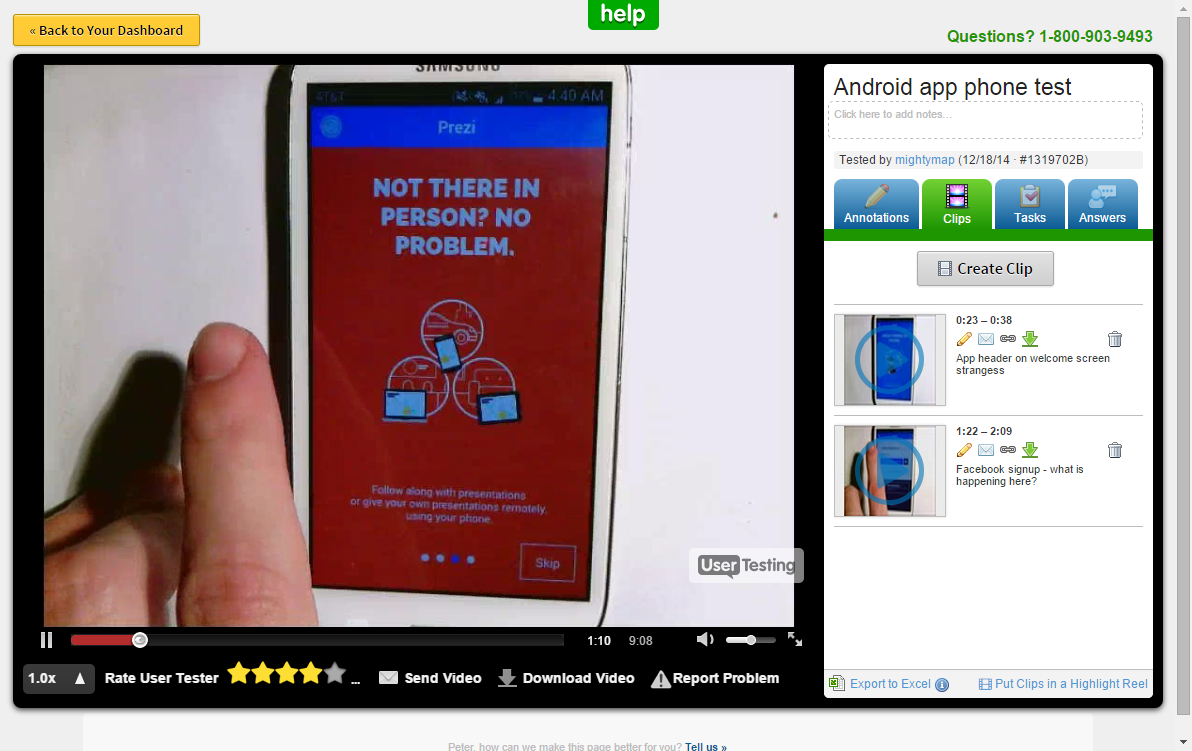
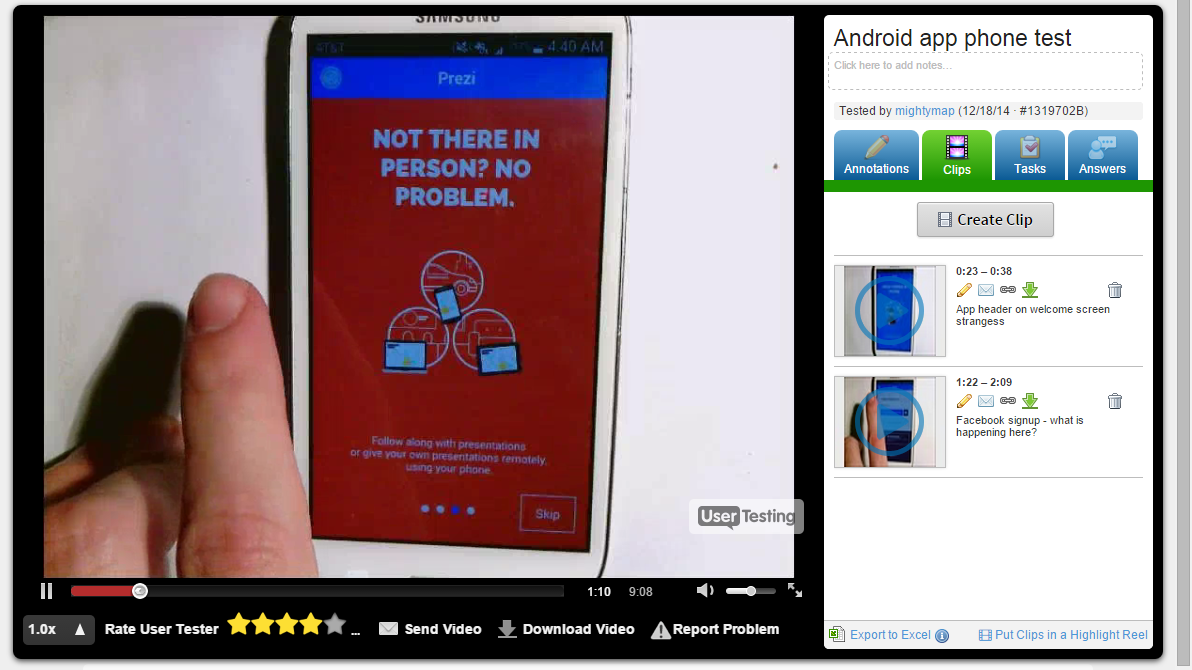
update images

diff --git a/_portfolio/2011-usability-testing-the-prezi-editor.md b/_portfolio/2011-usability-testing-the-prezi-editor.md
@@ -14,25 +14,19 @@ sidebar:
     text: "In a cross-functional team partner with a product designer, a product manager and engineers and enable discovery and learning about users."
   - title: "<br><br>"
     text: "[Back to the portfolio](/portfolio)"
-gallery:
-  - url: /assets/images/portfolio/2011-usability-testing-the-prezi-editor-1.png
-    image_path: assets/images/portfolio/2011-usability-testing-the-prezi-editor-1.png
-    alt: "testing the prezi editor"
-  - url: /assets/images/portfolio/2011-usability-testing-the-prezi-editor-2.jpg
-    image_path: assets/images/portfolio/2011-usability-testing-the-prezi-editor-2.jpg
-    alt: "testing the business sign up flow"
-  - url: /assets/images/portfolio/2011-usability-testing-the-prezi-editor-3.png
-    image_path: assets/images/portfolio/2011-usability-testing-the-prezi-editor-3.png
-    alt: "mobile testing"
 classes: wide
 ---
 
 Prezi, as a presentation startup offered many opportunities around the product when I joined. Along with separate desktop, web, and mobile versions, it has collaboration features and a unique interaction model. Instead of slides, it offers an infinite, zoomable canvas. This is a difficult problem space, presenting unique challenges in understanding how users navigate a boundless canvas. My team and I had to **experiment constantly to truly understand their shifting mental models and "aha" moments.**
 
-{% include gallery caption="Testing in various contexts, with various methods." %}
+{% include figure image_path="assets/images/portfolio/2011-usability-testing-the-prezi-editor-1.png" caption="Testing the prezi editor" %}
 
 We realized early that we not only need frequent user sessions, but we have to have weekly recurring tests to understand how each interaction change impacts the overall experience. 
 
+{% include figure image_path="assets/images/portfolio/2011-usability-testing-the-prezi-editor-2.jpg" caption="Testing the business sign up flow" %}
+
 We quickly realized that only **a continuous and rigorous discovery practice** could keep pace with our product's rapid evolution. To truly understand how each interaction change impacted the overall experience, we committed to weekly testing, conducting **hundreds of user sessions** with the team, improving our testing practice together. Since editing a prezi takes lots of creativity, we operated with **open tasks** to not limit the participants’ intentions, which made facilitation difficult and made us think a lot about how each word biased the users’ later actions.
+
+{% include figure image_path="assets/images/portfolio/2011-usability-testing-the-prezi-editor-3.png" caption="Mobile app testing" %}
 
 Through this process, I gained deep expertise in a wide range of discovery methods, from paper prototypes to eye tracking and guerrilla testing. But my biggest lesson was about impact. To ensure our insights were never siloed, we developed creative ways to get the information to the broader product team—through newsletters, comics, and mini-talks. **This was a foundational experience in making discovery a core, integrated part of our product development process.**
